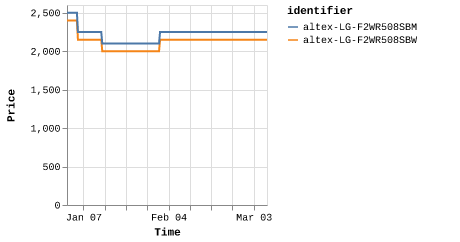
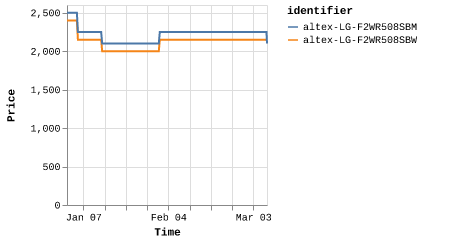
Latest scraping spalat: Thu Mar  7 12:47:48 UTC 2024

Changed region(s): [[0.5174, 0.0289, 0.6087, 0.9256], [0.3348, 0.0289, 0.3957, 0.9256]]

diff --git a/scrapes/spalat/altex-LG-F2WR508SBM.md b/scrapes/spalat/altex-LG-F2WR508SBM.md
@@ -1,3 +1,3 @@
-2249
+2099
 
 [Source](https://altex.ro/masina-de-spalat-rufe-frontala-slim-lg-f2wr508sbm-steam-8-kg-1200rpm-clasa-a-negru/cpd/MSFF2WR508SBM/)
